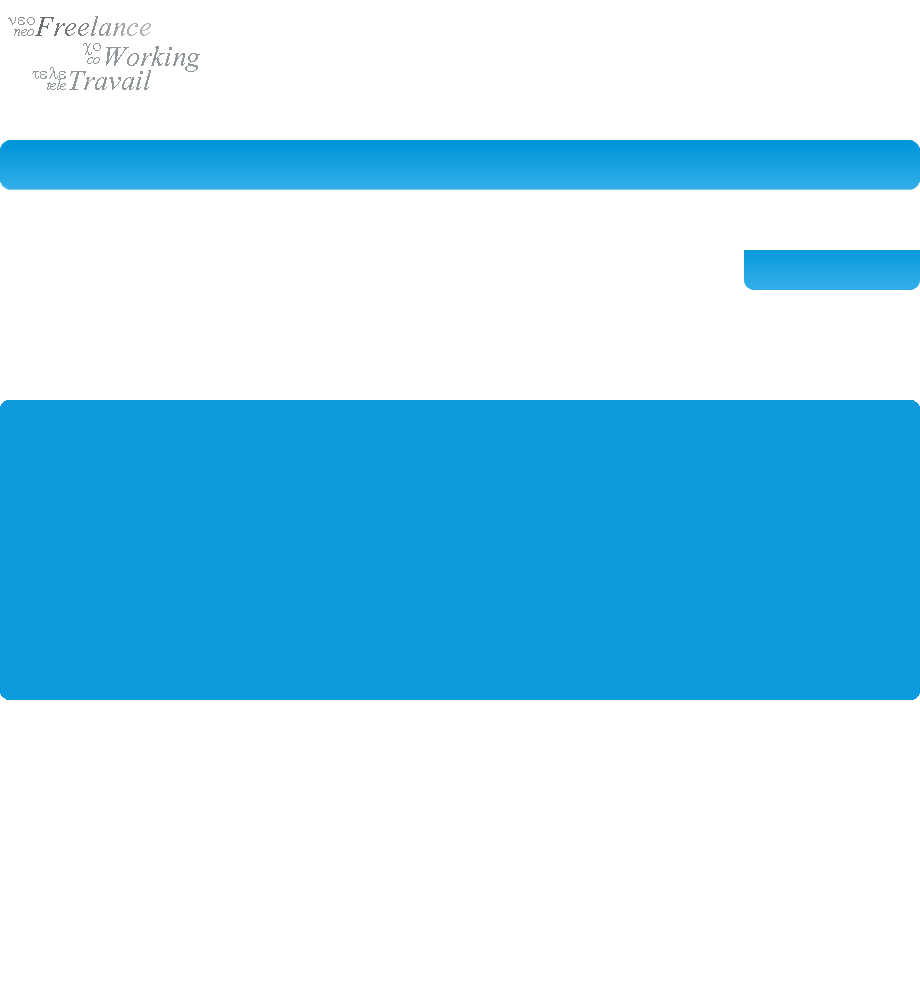
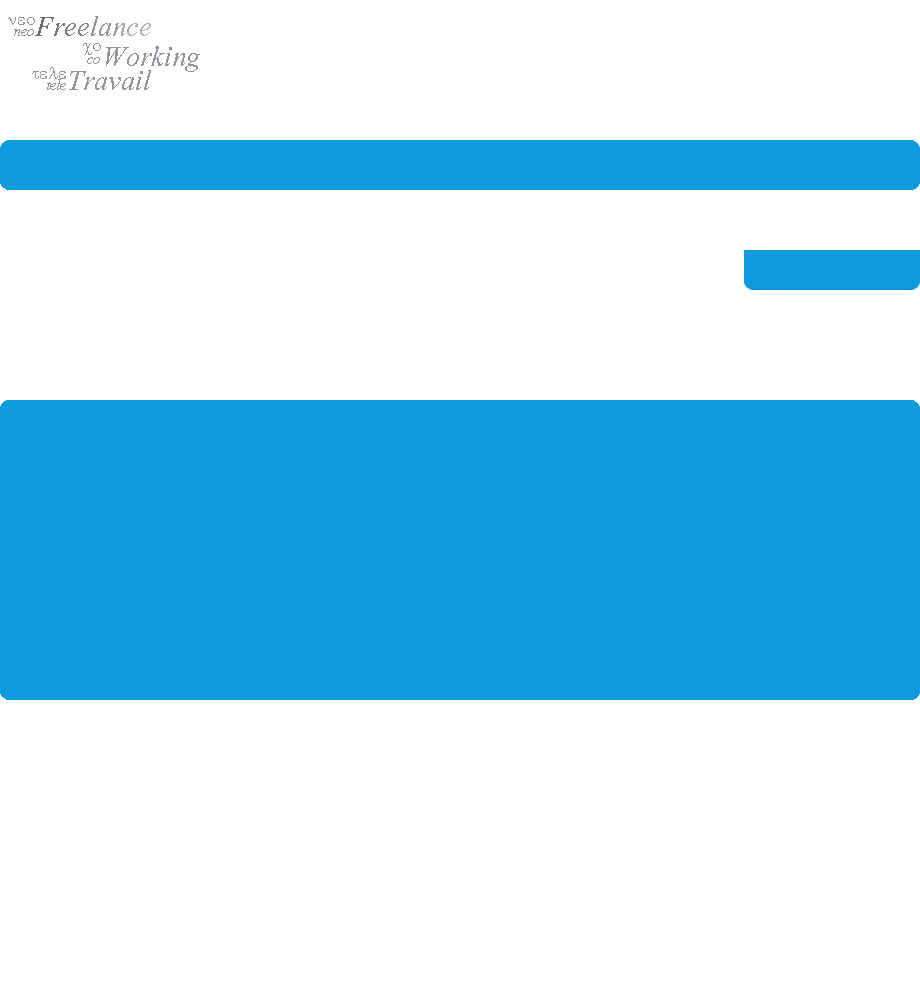
- Quelques réglages

Changed region(s): [[0.0, 0.155, 1.0, 0.217], [0.7913, 0.279, 1.0, 0.31]]

diff --git a/developpement/V0.2/css/freelancer.css b/developpement/V0.2/css/freelancer.css
@@ -90,18 +90,17 @@ th {
 
 #logout{cursor:pointer; margin:20px 0px 0px 0px; padding:10px 10px; border:#fff solid 1px; color:#999999 !important; }
 
-#box-login{display:none; width:280px; position:absolute; top:57px; right:0px; border:#CCC solid 5px; background:#FFF; z-index:10; padding:25px 30px 10px 30px;}
-
 #profil{cursor:pointer; margin:20px 0px 0px 0px; padding:10px 10px; border:#fff solid 1px; color:#333 !important; }
 .profil{ margin:0 auto; position: relative; display:block;  width:920px;}
 
 #box-profil{display:none; width:280px; position:absolute; top:57px; right:0px; border:#CCC solid 5px; background:#FFF; z-index:10; padding:25px 30px 10px 30px;}
 
+#box-login{display:none; width:280px; position:absolute; top:57px; right:0px; border:#CCC solid 5px; background:#FFF; z-index:10; padding:25px 30px 10px 30px;}
 #box-login .field{padding-bottom:10px !important;}
 #box-login .remember{float:left; padding-top:12px;}
 #username{width:260px;}
 #passwd{width:190px;}
-#box-login .forgot{position:absolute; top:8px; right:0px;}
+#box-login .forgot{position: relative; left:2px; top:8px; right:0px;}
 #loginpermanent {vertical-align: middle;}
 #box-login-icon { background-image:url(../images/icon_close1.png); position:absolute; top : 0; left: 0;}
 #box-login a {color:#00CCCC;}
@@ -130,9 +129,12 @@ th {
 	border-top-right-radius: 10px; 
 }
 
-.content{ margin:0 auto; position:relative; border:none; width:920px; background:#fff; border-top:none;
+.content{ padding: 0px 10px 0px 10px; margin: 0 auto; position:relative; border:none; width:920px; background:#fff; border-top:none;
 
--moz-border-radius-topleft: 10px;
+}
+.menu-content{ padding: 10px 10px 0px 10px; margin:0 auto; position:relative; border:none; width:920px; background:#fff; border-top:none;
+
+    -moz-border-radius-topleft: 10px;
 	-webkit-border-top-left-radius: 10px;
 	-o-border-radius-topleft: 10px;
 	-o-border-top-left-radius: 10px;
@@ -142,7 +144,7 @@ th {
 	-khtml-border-top-left-radius: 10px;
  	border-top-left-radius: 10px;
 
--moz-border-radius-topright: 10px;
+    -moz-border-radius-topright: 10px;
 	-webkit-border-top-right-radius: 10px;
 	-o-border-radius-topright: 10px;
 	-o-border-top-right-radius: 10px;
@@ -518,6 +520,15 @@ Bottom banner
 */
 #ns_bootom-banner-wrapper{height:300px; background:url(../images/menu.png) 0px -400px no-repeat;padding-top:20px;margin-bottom:10px; } 
 #ns_bottom-banner{width:920px; position:relative; background:url(../images/menu.png) bottom left no-repeat; color:#FFF; clear:both; margin-top:-10px; float:left; *margin-bottom:-20px;font-size:16px;}
+
+#banner{width:920px; position:relative; background:url(../images/menu.png) bottom left no-repeat; color:#000; clear:both; margin-top:-10px; float:left; *margin-bottom:-20px;font-size:16px;}
+#banner .ns_copy{padding:30px 0 105px 20px;}
+#banner h1 {text-shadow:0 -1px 1px rgba(0, 0, 0, 0.25); font-family: NeoSansMedium, Arial, Sans-serif!important; font-size:40px!important; letter-spacing:-1px; margin-bottom:0px; font-weight:normal; line-height:1em; color:#000!important; border:none!important; padding-bottom:0!important;}
+#banner ul{margin-bottom:20px; padding:0px; list-style-type:none;}
+#banner ul li{margin:5px 0px; background:url(../img/sprite-icons.png?24) 0px -4192px no-repeat; height:20px; padding-left:25px; }
+#banner p{margin-bottom:15px;}
+#banner a.ns_bigbtn{width:235px;}
+
 
 .span-one-third{width:200px}
 .span-one-half{width:450px}

diff --git a/developpement/V0.2/chat/chat.php b/developpement/V0.2/chat/chat.php
@@ -43,7 +43,7 @@ function AddText(startTag,defaultText,endTag)
 
 <textarea
    rows="5"
-   cols="25"
+   style="width: 100%"
    name="stream"
    wrap="virtual" readonly class="projectFormTextField"
    onmouseover="this.focus();">
@@ -97,7 +97,7 @@ catch(Exception $e)
 </textarea><br>
 <div>
 <span>
-<input type="text" name="message" id="mess" value="Tapez un message, puis Enter !" onFocus="javascript:this.value=''" class="projectFormTextField" size="28">
+<input type="text" name="message" id="mess" value="Tapez un message, puis Enter !" onFocus="javascript:this.value=''" class="projectFormTextField" style="width: 100%">
 </span>
 <span>
 <input type="submit" name="soumettre" value="Envoyer" style=" display:none;">

diff --git a/developpement/V0.2/chat/envoyer.php b/developpement/V0.2/chat/envoyer.php
@@ -27,9 +27,12 @@ try
     $requete = "INSERT INTO CHAT VALUES('','".$date."','".$message."');";
     mysql_query($requete);
     // Redirection du visiteur vers la page du minichat
+
+
     echo '<SCRIPT LANGUAGE="JavaScript">';
-    echo 'document.location.href="../index.php"'; /* vous pouvez aussi mettre http://www.monsite.com */
+    echo 'document.location.href="../index.php#chat"';
     echo '</SCRIPT>';
+
 }
 catch(Exception $e)
 {
